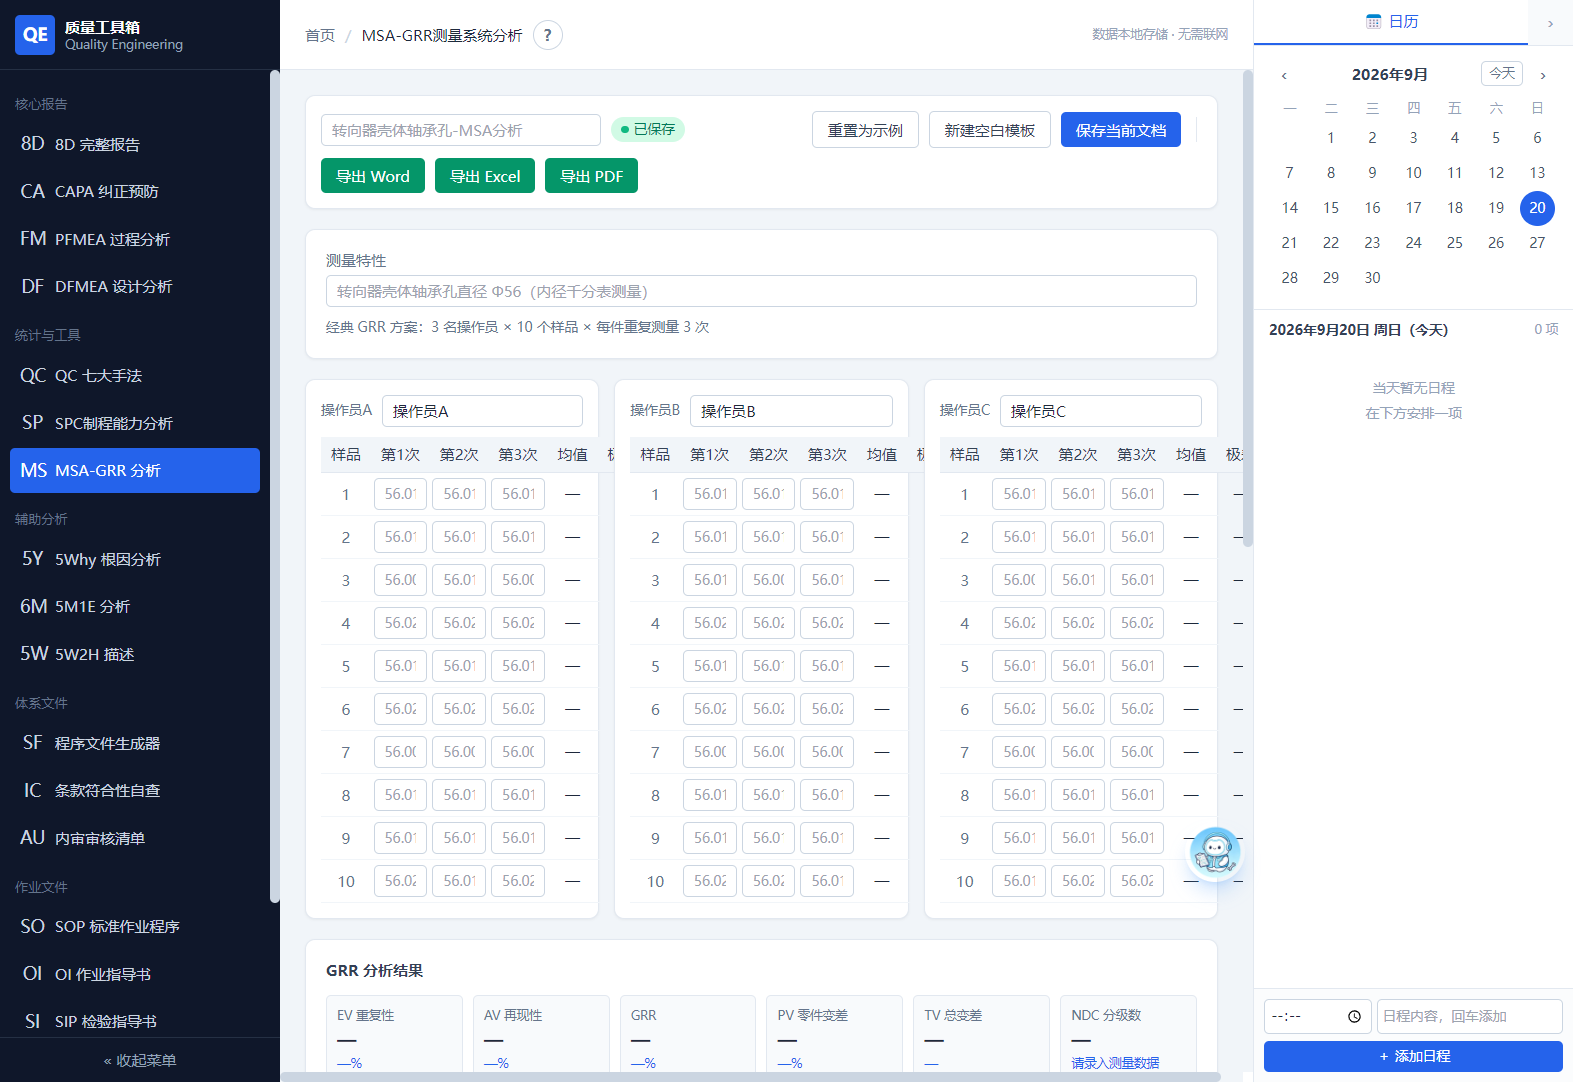
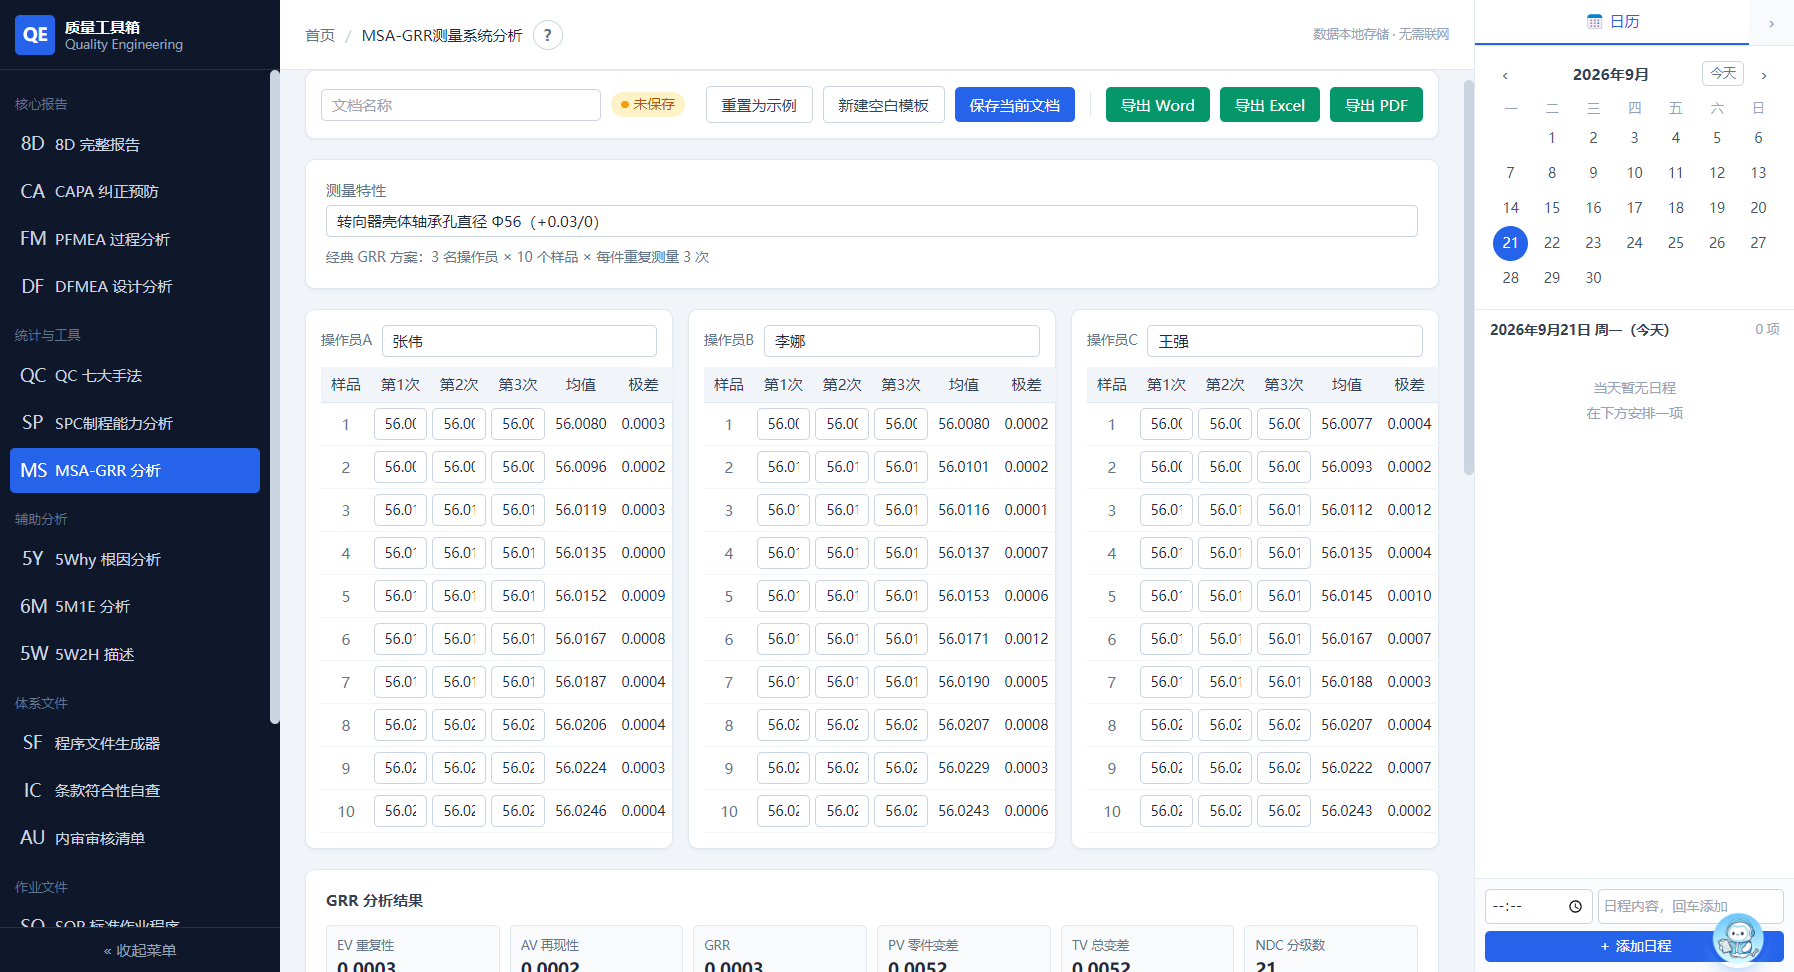
update screenshots with real data + captions, add changelog section

diff --git a/index.html b/index.html
@@ -210,6 +210,7 @@
       <a href="#features" class="hover:text-indigo-600 transition">功能</a>
       <a href="#screenshots" class="hover:text-indigo-600 transition">截图</a>
       <a href="#download" class="hover:text-indigo-600 transition">下载</a>
+      <a href="#changelog" class="hover:text-indigo-600 transition">发布历史</a>
       <a href="#faq" class="hover:text-indigo-600 transition">常见问题</a>
     </nav>
     <a href="#download" class="btn-primary text-white text-sm px-4 py-2 rounded-lg font-medium">立即下载</a>
@@ -369,25 +370,84 @@
     <div class="max-w-7xl mx-auto px-6">
       <div class="text-center mb-14">
         <h2 class="text-3xl md:text-4xl font-bold mb-3">界面预览</h2>
-        <p class="text-slate-500">简洁现代，专注于内容本身</p>
+        <p class="text-slate-500">真实数据填充，所见即所得</p>
       </div>
-      <div class="grid md:grid-cols-2 gap-6">
-        <div class="shot-frame md:col-span-2">
-          <img src="screenshots/main.png" alt="主界面" class="w-full h-auto" loading="lazy" />
+      <div class="space-y-10">
+        <!-- 8D -->
+        <figure class="shot-frame">
+          <img src="screenshots/main.png" alt="8D 完整报告" class="w-full h-auto" loading="lazy" />
+          <figcaption class="bg-white px-6 py-4 border-t border-slate-100">
+            <b class="text-slate-800">8D 完整报告</b>
+            <span class="text-slate-500 text-sm ml-2">D0~D8 全流程结构化填写，AI 助手（右下角悬浮球）可一键生成整份报告，支持导出 Word / Excel / PDF</span>
+          </figcaption>
+        </figure>
+        <!-- SPC + MSA -->
+        <div class="grid md:grid-cols-2 gap-6">
+          <figure class="shot-frame">
+            <img src="screenshots/spc.png" alt="SPC 制程能力分析" class="w-full h-auto" loading="lazy" />
+            <figcaption class="bg-white px-6 py-4 border-t border-slate-100">
+              <b class="text-slate-800">SPC 制程能力分析</b>
+              <span class="block text-slate-500 text-sm mt-1">125 件实测数据自动计算 Cp/Cpk、Pp/Ppk、Pm/Pmk，直方图叠加 USL/LSL 规格线与均值参考线，附正态性检验与 OCAP 失控行动计划（AIAG-VDA 2026 新版）</span>
+            </figcaption>
+          </figure>
+          <figure class="shot-frame">
+            <img src="screenshots/msa.png" alt="MSA 测量系统分析" class="w-full h-auto" loading="lazy" />
+            <figcaption class="bg-white px-6 py-4 border-t border-slate-100">
+              <b class="text-slate-800">MSA-GRR 测量系统分析</b>
+              <span class="block text-slate-500 text-sm mt-1">经典 3 操作员 × 10 零件 × 3 次重复方案，自动计算 EV / AV / GRR / PV / NDC 并给出合格判定，均值对比图直观呈现再现性差异</span>
+            </figcaption>
+          </figure>
         </div>
-        <div class="shot-frame">
-          <img src="screenshots/spc.png" alt="SPC 制程能力分析" class="w-full h-auto" loading="lazy" />
-        </div>
-        <div class="shot-frame">
-          <img src="screenshots/msa-chart.png" alt="MSA 测量系统分析" class="w-full h-auto" loading="lazy" />
-        </div>
-        <div class="shot-frame">
-          <img src="screenshots/xr-chart.png" alt="X-R 控制图" class="w-full h-auto" loading="lazy" />
-        </div>
-        <div class="shot-frame">
-          <img src="screenshots/fishbone.png" alt="鱼骨图因果分析" class="w-full h-auto" loading="lazy" />
+        <!-- X-R + 鱼骨图 -->
+        <div class="grid md:grid-cols-2 gap-6">
+          <figure class="shot-frame">
+            <img src="screenshots/xr-chart.png" alt="X-R 控制图" class="w-full h-auto" loading="lazy" />
+            <figcaption class="bg-white px-6 py-4 border-t border-slate-100">
+              <b class="text-slate-800">X-R 均值-极差控制图</b>
+              <span class="block text-slate-500 text-sm mt-1">12 子组 × 5 测量位，自动计算控制限（UCL / CL / LCL）并标红异常点，超限即刻预警特殊原因</span>
+            </figcaption>
+          </figure>
+          <figure class="shot-frame">
+            <img src="screenshots/fishbone.png" alt="鱼骨图因果分析" class="w-full h-auto" loading="lazy" />
+            <figcaption class="bg-white px-6 py-4 border-t border-slate-100">
+              <b class="text-slate-800">鱼骨图因果分析</b>
+              <span class="block text-slate-500 text-sm mt-1">人-机-料-法-环-测六大类自由增删原因与子原因，左侧编辑右侧鱼骨图实时刷新，导出报告时以高清图片嵌入</span>
+            </figcaption>
+          </figure>
         </div>
       </div>
+    </div>
+  </section>
+
+  <!-- ===== 发布历史 ===== -->
+  <section id="changelog" class="py-20 bg-white">
+    <div class="max-w-4xl mx-auto px-6">
+      <div class="text-center mb-14">
+        <h2 class="text-3xl md:text-4xl font-bold mb-3">发布历史</h2>
+        <p class="text-slate-500">持续迭代，越用越好用</p>
+      </div>
+      <ol class="relative border-l-2 border-indigo-100 space-y-10 ml-3">
+        <li class="ml-8">
+          <span class="absolute -left-[11px] flex items-center justify-center w-5 h-5 bg-indigo-600 rounded-full ring-4 ring-indigo-100"></span>
+          <h3 class="font-bold text-lg mb-1">v2.2.5 <span class="text-xs font-normal text-indigo-600 bg-indigo-50 px-2 py-0.5 rounded-full align-middle">最新</span></h3>
+          <p class="text-slate-500 text-sm leading-6">AI 助手填写全面升级：8D 补齐 D1~D6 全部字段（团队/遏制/5Why/永久措施/实施记录），新增 QC 直方图、散布图、层别法、鱼骨图与 MSA 操作员数据填写；修复图表横轴文字显示不全；窗口缩放时日历与 AI 面板不再被遮挡。</p>
+        </li>
+        <li class="ml-8">
+          <span class="absolute -left-[11px] flex items-center justify-center w-5 h-5 bg-slate-300 rounded-full ring-4 ring-slate-100"></span>
+          <h3 class="font-bold text-lg mb-1">v2.2.4</h3>
+          <p class="text-slate-500 text-sm leading-6">界面三栏布局优化：AI 助手面板可嵌入主区域与日历栏之间并自由拖宽，日历栏支持折叠，主区域与各面板增加最小宽度限制。</p>
+        </li>
+        <li class="ml-8">
+          <span class="absolute -left-[11px] flex items-center justify-center w-5 h-5 bg-slate-300 rounded-full ring-4 ring-slate-100"></span>
+          <h3 class="font-bold text-lg mb-1">v2.2.3</h3>
+          <p class="text-slate-500 text-sm leading-6">AI 助手聊天面板稳定性修复；新增 AI 一句话自动填表（识别 [OP] 指令直接写入对应页面字段）。</p>
+        </li>
+        <li class="ml-8">
+          <span class="absolute -left-[11px] flex items-center justify-center w-5 h-5 bg-slate-300 rounded-full ring-4 ring-slate-100"></span>
+          <h3 class="font-bold text-lg mb-1">v2.2.2</h3>
+          <p class="text-slate-500 text-sm leading-6">SPC 2026 新版：新增 Pm/Pmk 机器性能研究、Pp/Ppk 初始过程研究与正态性检验；Gitee 直链下载加速。</p>
+        </li>
+      </ol>
     </div>
   </section>
 
@@ -512,6 +572,7 @@
           <li><a href="#features" class="hover:text-white transition">核心功能</a></li>
           <li><a href="#screenshots" class="hover:text-white transition">界面预览</a></li>
           <li><a href="#download" class="hover:text-white transition">下载安装</a></li>
+          <li><a href="#changelog" class="hover:text-white transition">发布历史</a></li>
           <li><a href="#faq" class="hover:text-white transition">常见问题</a></li>
         </ul>
       </div>

diff --git a/README.md b/README.md
@@ -43,13 +43,34 @@
 
 ## 🖼 界面预览
 
-![主界面](screenshots/main.png)
+**8D 完整报告** — D0~D8 全流程结构化填写，AI 助手（右下角悬浮球）可一键生成整份报告
 
-![SPC X-R 控制图（有数据）](screenshots/xr-chart.png)
+![8D 完整报告](screenshots/main.png)
 
-![MSA 测量系统分析（有数据）](screenshots/msa-chart.png)
+**SPC 制程能力分析** — 125 件实测数据自动计算 Cp/Cpk、Pp/Ppk、Pm/Pmk，直方图叠加 USL/LSL 规格线（AIAG-VDA 2026 新版）
 
-![QC 七大手法 · 鱼骨图](screenshots/fishbone.png)
+![SPC 制程能力分析](screenshots/spc.png)
+
+**MSA-GRR 测量系统分析** — 3 操作员 × 10 零件 × 3 次重复，自动判定合格与否
+
+![MSA-GRR 测量系统分析](screenshots/msa.png)
+
+**X-R 均值-极差控制图** — 自动计算控制限，异常点标红预警
+
+![X-R 控制图](screenshots/xr-chart.png)
+
+**鱼骨图因果分析** — 人机料法环测六大类，编辑即刷新，导出高清嵌入
+
+![鱼骨图因果分析](screenshots/fishbone.png)
+
+---
+
+## 📜 发布历史
+
+- **v2.2.5（最新）** — AI 填写全面升级：8D 补齐 D1~D6 全部字段，新增 QC 直方图/散布图/层别法/鱼骨图与 MSA 数据填写；修复图表横轴文字显示不全；窗口缩放不再遮挡日历与 AI 面板
+- **v2.2.4** — 三栏布局优化：AI 面板可嵌入主区域与日历栏之间，日历栏可折叠，各面板最小宽度限制
+- **v2.2.3** — AI 聊天面板稳定性修复；新增 AI 一句话自动填表
+- **v2.2.2** — SPC 2026 新版：Pm/Pmk、Pp/Ppk 研究与正态性检验；Gitee 直链下载
 
 ---
 
